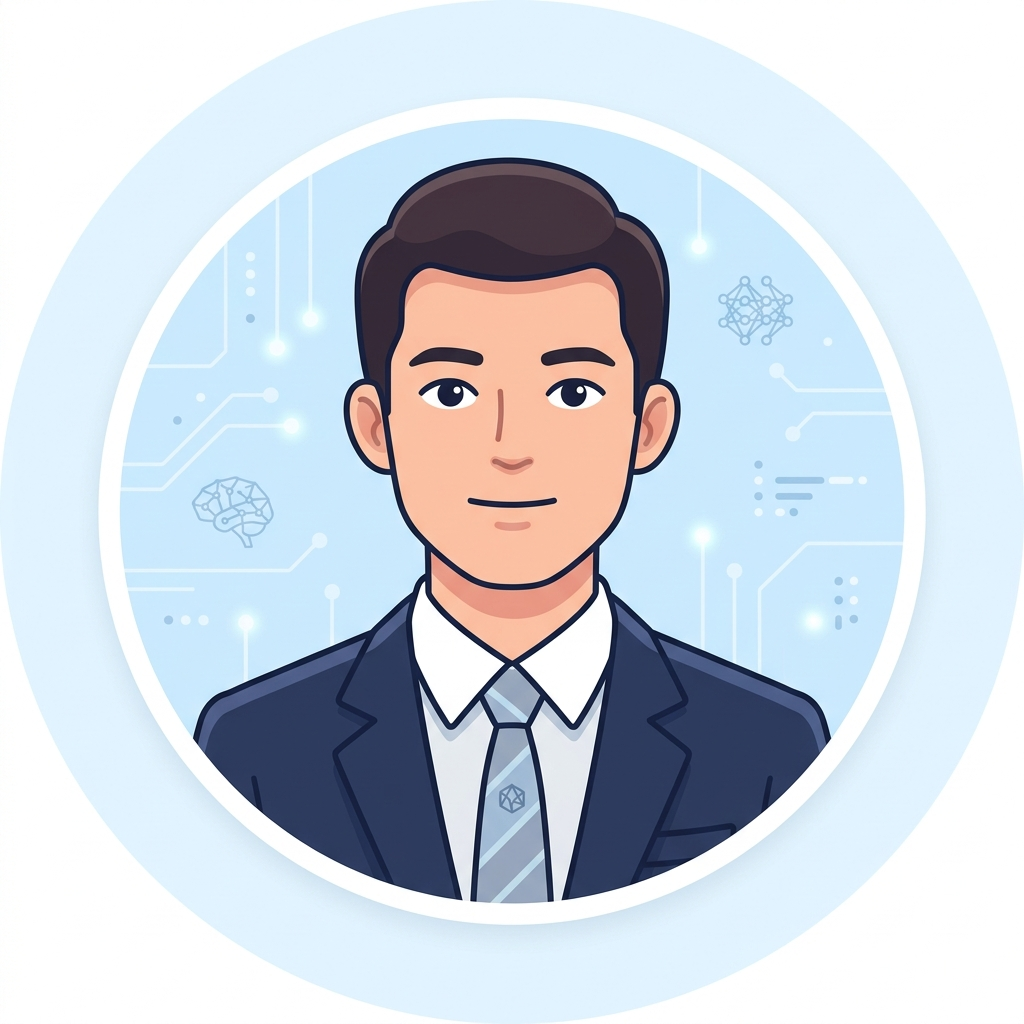
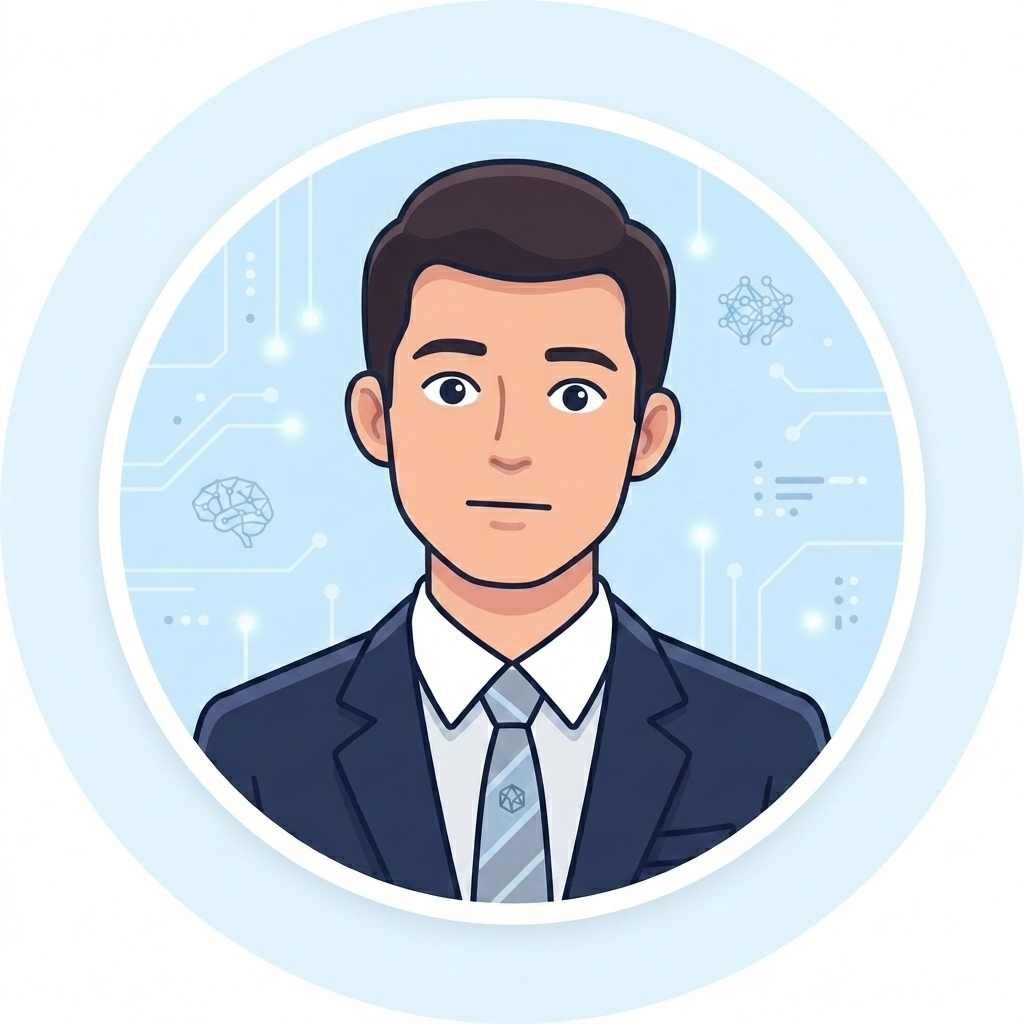
Updated som,e Animation style and changes

diff --git a/ui/app.py b/ui/app.py
@@ -15,27 +15,14 @@ from audio_processor.pipeline import run_pipeline
 from audio_processor import tts_engine
 from resume_parser.resume_parser import parse_resume
 
-# ── Avatar sprite frame sequences ──────────────────────────────────────
+# ── Avatar animated GIFs ──────────────────────────────────────
 ASSETS = os.path.join(os.path.dirname(__file__), "assets")
 
-# Each state has a list of PNG filenames to cycle through
-AVATAR_FRAMES = {
-    # Mouth cycles fast (every tick = 10 FPS)
-    "talking"  : ["avatar_idle.png", "speak_1.png", "speak_2.png", "speak_1.png", "avatar_idle.png"],
-    # Slow blink (every 30 ticks = ~3s)
-    "idle"     : ["avatar_idle.png", "idle_1.png", "avatar_idle.png"],
-    # Attentive + occasional nod (every 20 ticks = ~2s) — using our generated male sprites only
-    "listening": ["listen_1.png", "avatar_idle.png"],
-    # Thinking look (every 15 ticks = ~1.5s)
-    "thinking" : ["avatar_idle.png", "think_0.png"],
-}
-
-# Ticks between frame advances (timer runs at 0.1s, so 10 = 1 second)
-AVATAR_RATES = {
-    "talking"  : 1,   # 10 FPS — fast mouth movement
-    "idle"     : 30,  # blink every ~3s
-    "listening": 20,  # nod every ~2s
-    "thinking" : 15,  # shift every ~1.5s
+AVATAR_GIFS = {
+    "talking"  : "talking.gif",
+    "idle"     : "idle.gif",
+    "listening": "listening.gif",
+    "thinking" : "thinking.gif",
 }
 
 # ── Shared state (pipeline writes, UI reads) ──────────────────────────
@@ -79,6 +66,12 @@ def on_vision_scores(anxiety: float, confidence: float):
     shared["confidence"] = confidence
 
 def on_vision_frame(frame):
+    try:
+        import cv2
+        # Resize to drastically reduce network payload and UI stutter
+        frame = cv2.resize(frame, (320, 240))
+    except Exception:
+        pass
     shared["webcam"] = frame
 
 
@@ -185,6 +178,9 @@ def stop_interview():
     return "Stopped."
 
 
+# ── Shared state for caching poll values to prevent UI lag ─────────────
+_last_poll = {}
+
 # ── Polling — updates UI every 0.1s ────────────────────────────────────
 def poll():
     show_setup     = gr.update(visible=(shared["screen"] == "setup"))
@@ -193,12 +189,7 @@ def poll():
     show_report    = gr.update(visible=(shared["screen"] == "report"))
 
     state    = shared["avatar"]
-    frames   = AVATAR_FRAMES.get(state, AVATAR_FRAMES["idle"])
-    rate     = AVATAR_RATES.get(state, 30)
-    tick     = shared["frame_tick"]
-    frame_idx = (tick // rate) % len(frames)
-    avatar_img = os.path.join(ASSETS, frames[frame_idx])
-    shared["frame_tick"] = tick + 1
+    avatar_img = os.path.join(ASSETS, AVATAR_GIFS.get(state, "idle.gif"))
 
     history_md = "\n\n".join(
         f"**Q{i+1}:** {qa['q']}\n\n**A:** {qa['a']}"
@@ -216,7 +207,7 @@ def poll():
     topics_str     = "\n".join(f"• {k}: {v}/100" for k, v in topics_dict.items()) if isinstance(topics_dict, dict) else str(topics_dict)
     rec_str        = str(rc.get("key_recommendation", "Continue practicing technical fundamentals.")) if rc else ""
 
-    return (
+    current_values = (
         show_setup,
         show_loading,
         show_interview,
@@ -236,6 +227,26 @@ def poll():
         topics_str,
         rec_str,
     )
+
+    returns = []
+    for i, val in enumerate(current_values):
+        # We skip updates if the value hasn't changed.
+        # For the webcam image (numpy array), we check object identity (is) 
+        # because a new array is assigned each frame.
+        if i == 9: # webcam index
+            if _last_poll.get(i) is val:
+                returns.append(gr.skip())
+            else:
+                returns.append(val)
+                _last_poll[i] = val
+        else:
+            if _last_poll.get(i) == val:
+                returns.append(gr.skip())
+            else:
+                returns.append(val)
+                _last_poll[i] = val
+
+    return tuple(returns)
 
 
 COMPANY_CHOICES = [

diff --git a/ui/generate_gifs.py b/ui/generate_gifs.py
@@ -1,0 +1,81 @@
+import os
+from PIL import Image
+
+def blend_images(img1, img2, steps):
+    blended = []
+    for i in range(1, steps + 1):
+        alpha = i / (steps + 1.0)
+        blended.append(Image.blend(img1, img2, alpha))
+    return blended
+
+def generate_gifs():
+    base_dir = os.path.dirname(os.path.abspath(__file__))
+    assets_dir = os.path.join(base_dir, "assets")
+
+    AVATAR_FRAMES = {
+        "talking"  : ["avatar_idle.png", "speak_1.png", "speak_2.png", "speak_1.png", "avatar_idle.png"],
+        "idle"     : ["avatar_idle.png", "idle_1.png", "avatar_idle.png"],
+        "listening": ["listen_1.png", "avatar_idle.png"],
+        "thinking" : ["avatar_idle.png", "think_0.png"],
+    }
+
+    # Custom durations for the KEY frames
+    CUSTOM_DURATIONS = {
+        "talking": [100, 100, 100, 100, 100], 
+        "idle": [3000, 150, 3000],
+        "listening": [400, 2000], 
+        "thinking": [1500, 1500],
+    }
+
+    # Number of intermediate frames to generate between each keyframe for smoothness
+    BLEND_STEPS = 3
+    # Duration for each blended frame
+    BLEND_DURATION = 30
+
+    for state, filenames in AVATAR_FRAMES.items():
+        key_images = []
+        for f in filenames:
+            img_path = os.path.join(assets_dir, f)
+            if not os.path.exists(img_path):
+                print(f"Missing {img_path}")
+                continue
+            key_images.append(Image.open(img_path).convert("RGBA"))
+        
+        if len(key_images) < 2:
+            continue
+            
+        final_images = []
+        final_durations = []
+        
+        durations = CUSTOM_DURATIONS.get(state, [100] * len(key_images))
+        
+        for i in range(len(key_images)):
+            # Add the keyframe
+            final_images.append(key_images[i])
+            final_durations.append(durations[i])
+            
+            # If not the last frame, add blended frames transitioning to the next keyframe
+            if i < len(key_images) - 1:
+                blended = blend_images(key_images[i], key_images[i+1], BLEND_STEPS)
+                final_images.extend(blended)
+                final_durations.extend([BLEND_DURATION] * BLEND_STEPS)
+            elif state == "talking":
+                # For talking, loop back to the first frame smoothly
+                blended = blend_images(key_images[i], key_images[0], BLEND_STEPS)
+                final_images.extend(blended)
+                final_durations.extend([BLEND_DURATION] * BLEND_STEPS)
+                
+        out_path = os.path.join(assets_dir, f"{state}.gif")
+        
+        final_images[0].save(
+            out_path,
+            save_all=True,
+            append_images=final_images[1:],
+            optimize=False,
+            duration=final_durations,
+            loop=0
+        )
+        print(f"Generated ultra-smooth {out_path}")
+
+if __name__ == '__main__':
+    generate_gifs()

diff --git a/audio_processor/tts_engine.py b/audio_processor/tts_engine.py
@@ -5,7 +5,7 @@ import io
 import queue
 import threading
 
-VOICE = "en-US-AndrewNeural"
+VOICE = "en-US-GuyNeural"
 pygame.mixer.init()
 
 # Queue 1: text sentences waiting to be generated
@@ -122,16 +122,22 @@ def stream_from_llm(token_generator, state_machine=None, on_sentence=None, on_au
         sentences, sentence_buffer = _extract_sentences(sentence_buffer)
         for sentence in sentences:
             if sentence:
-                print(f"[TTS] -> {sentence}")
-                if on_sentence:
-                    on_sentence(sentence)
-                _text_queue.put(sentence)
+                import re
+                clean_sent = re.sub(r'[*#_]', '', sentence).strip()
+                if clean_sent:
+                    print(f"[TTS] -> {clean_sent}")
+                    if on_sentence:
+                        on_sentence(clean_sent)
+                    _text_queue.put(clean_sent)
 
     if sentence_buffer.strip() and not _stop_event.is_set():
         sent = sentence_buffer.strip()
-        if on_sentence:
-            on_sentence(sent)
-        _text_queue.put(sent)
+        import re
+        clean_sent = re.sub(r'[*#_]', '', sent).strip()
+        if clean_sent:
+            if on_sentence:
+                on_sentence(clean_sent)
+            _text_queue.put(clean_sent)
 
     # Wait for all audio to finish playing
     _text_queue.join()

diff --git a/llm_interviewer/interviewer.py b/llm_interviewer/interviewer.py
@@ -93,7 +93,7 @@ class QwenInterviewer:
                 ephemeral_hint = f"[SYSTEM INJECTION - KNOWLEDGE GRAPH & RUBRICS]: Use the following verified details and grading standard to ground your evaluation and formulate your next probing question:\n{rag_context}"
 
         self.turn_count += 1
-        return self._stream_response(ephemeral_hint=ephemeral_hint)
+        return self._stream_response(ephemeral_hint=ephemeral_hint, add_filler=True)
 
 
     def send_timesup(self):
@@ -104,10 +104,15 @@ class QwenInterviewer:
         return self._stream_response()
 
 
-    def _stream_response(self, ephemeral_hint: str = ""):
+    def _stream_response(self, ephemeral_hint: str = "", add_filler: bool = False):
         messages_payload = list(self.messages)
         if ephemeral_hint:
             messages_payload.append({"role": "system", "content": ephemeral_hint})
+
+        if add_filler:
+            import random
+            fillers = ["Hmm... ", "Right. ", "Okay. ", "I see. ", "Interesting... "]
+            yield random.choice(fillers)
 
         payload = {
             "model"   : MODEL_NAME,

diff --git a/audio_processor/vad.py b/audio_processor/vad.py
@@ -6,7 +6,7 @@ class SpeechSegmenter:
         self,
         speech_queue,
         on_event,
-        silence_frames_threshold = 94,    # 3s  — post speech silence before finalizing
+        silence_frames_threshold = 156,   # 5s  — post speech silence before finalizing (allows candidates to think)
         no_answer_threshold      = 469,   # 15s — before first word (comfortable thinking time)
         max_speech_frames        = 250,   # 8s  — force chunk
         vad_threshold            = 0.5,
